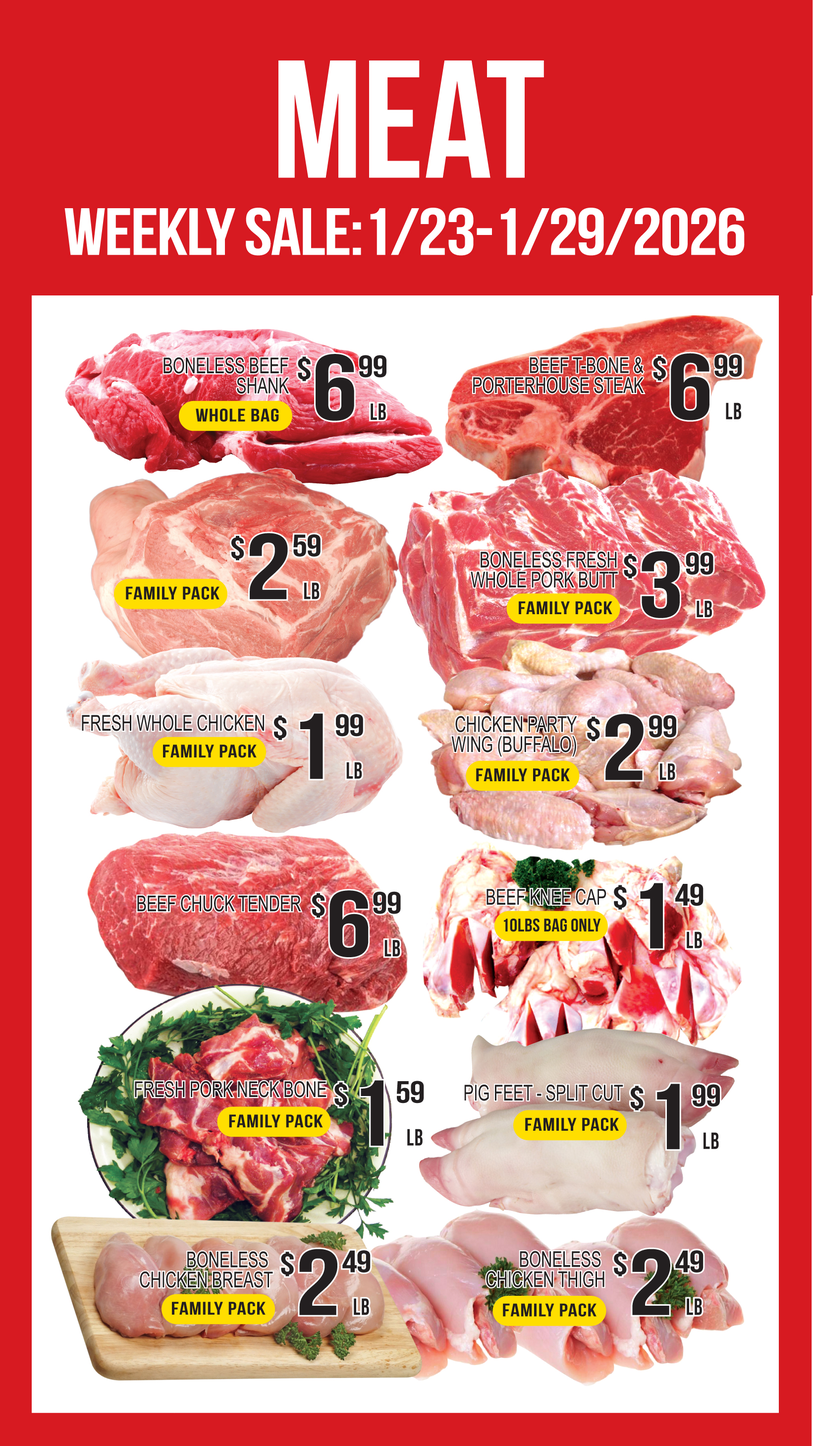
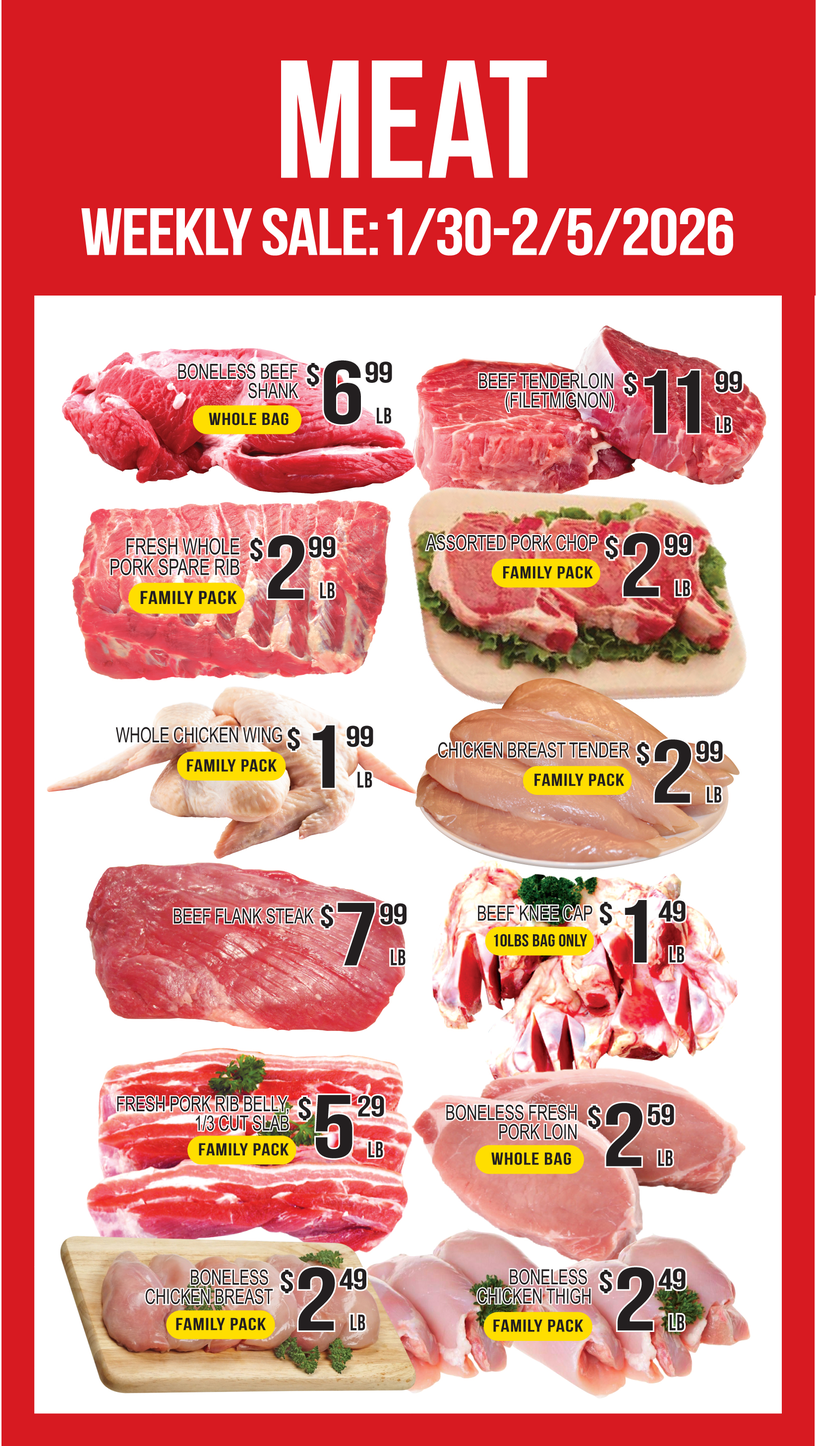
weekly

diff --git a/index.html b/index.html
@@ -67,16 +67,16 @@
           <img src="./public/assets/weekly/lds.jpg" class="img-fluid" alt="...">
         </div> -->
         <div class="carousel-item center-carousel active">
-          <img src="./public/assets/weekly/meat.jpg?v=0123" class="img-fluid" alt="...">
+          <img src="./public/assets/weekly/meat.jpg?v=0130" class="img-fluid" alt="...">
         </div>
         <div class="carousel-item center-carousel">
-          <img src="./public/assets/weekly/produce.jpg?v=0123" class="img-fluid" alt="...">
+          <img src="./public/assets/weekly/produce.jpg?v=0130" class="img-fluid" alt="...">
         </div>
         <div class="carousel-item center-carousel">
-          <img src="./public/assets/weekly/seafood.jpg?v=0123" class="img-fluid" alt="...">
+          <img src="./public/assets/weekly/seafood.jpg?v=0130" class="img-fluid" alt="...">
         </div>
         <div class="carousel-item center-carousel">
-          <img src="./public/assets/weekly/grocery.jpg?v=0123" class="img-fluid" alt="...">
+          <img src="./public/assets/weekly/grocery.jpg?v=0130" class="img-fluid" alt="...">
         </div>
         <!-- <div class="carousel-item center-carousel">
           <img src="./public/assets/sale/grocery2.jpg?v=070623" class="img-fluid" alt="...">

diff --git a/deals.html b/deals.html
@@ -50,15 +50,15 @@
     <div class="row deal">
 
       <h2>English</h2>
-      <img class="img-fluid" src="./public/assets/weekly/english.jpg?v=0123">
+      <img class="img-fluid" src="./public/assets/weekly/english.jpg?v=0130">
 
       <br><br>
       <h2>Hispanic</h2>
-      <img class="img-fluid" src="./public/assets/weekly/hispanic.jpg?v=0123">
+      <img class="img-fluid" src="./public/assets/weekly/hispanic.jpg?v=0130">
 
       <br>
       <h2>Korean</h2>
-      <img class="img-fluid" src="./public/assets/weekly/korean.jpg?v=0123">
+      <img class="img-fluid" src="./public/assets/weekly/korean.jpg?v=0130">
       <br>
       <br>
     </div>
